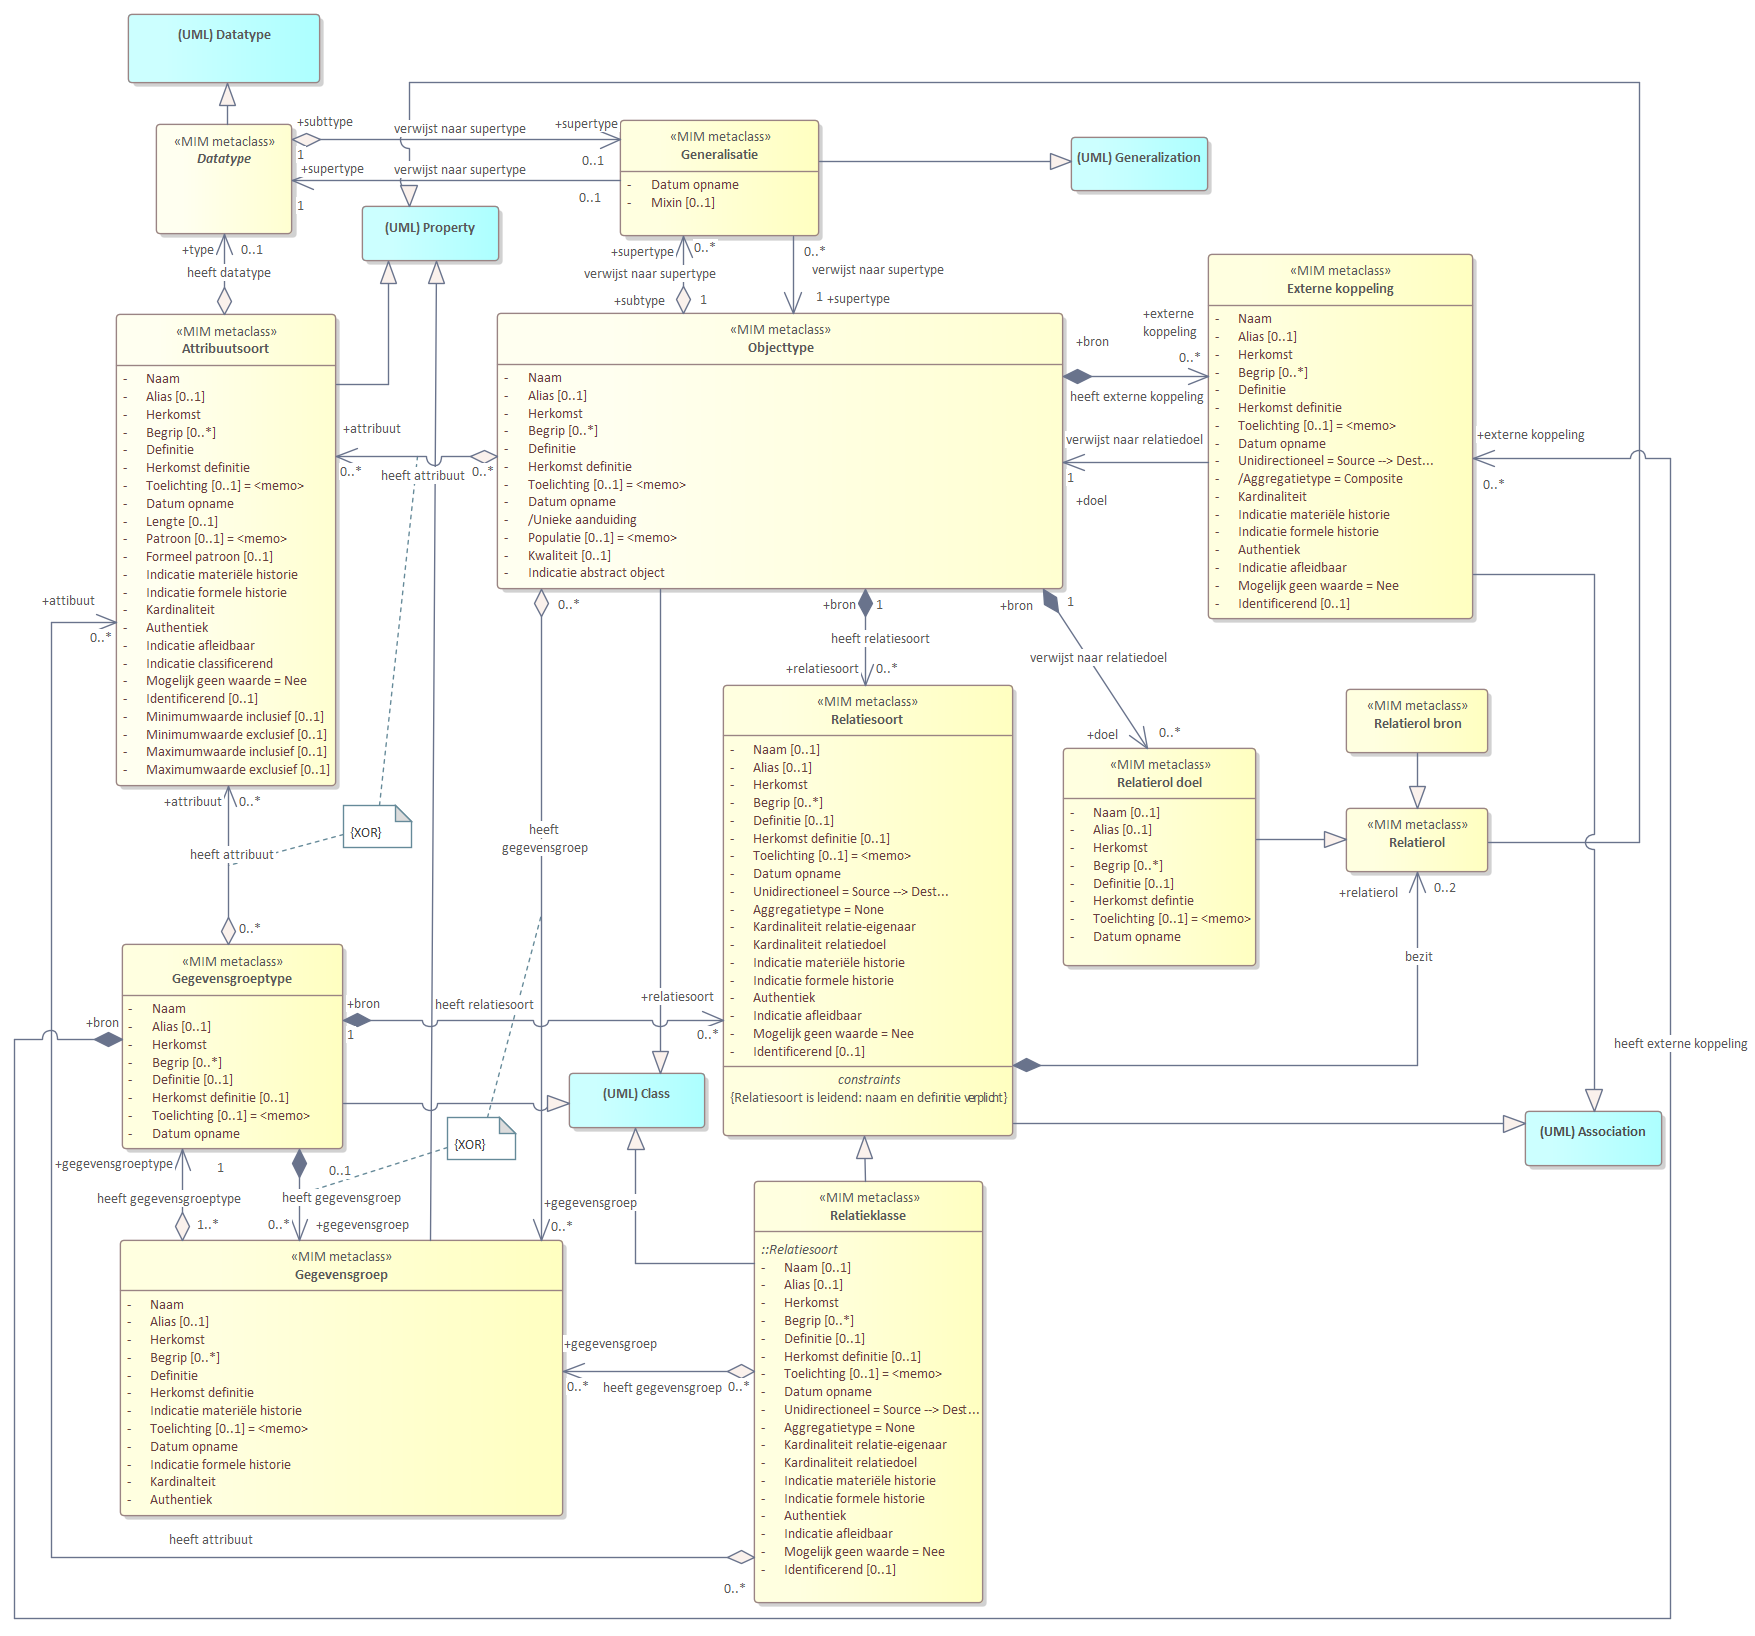
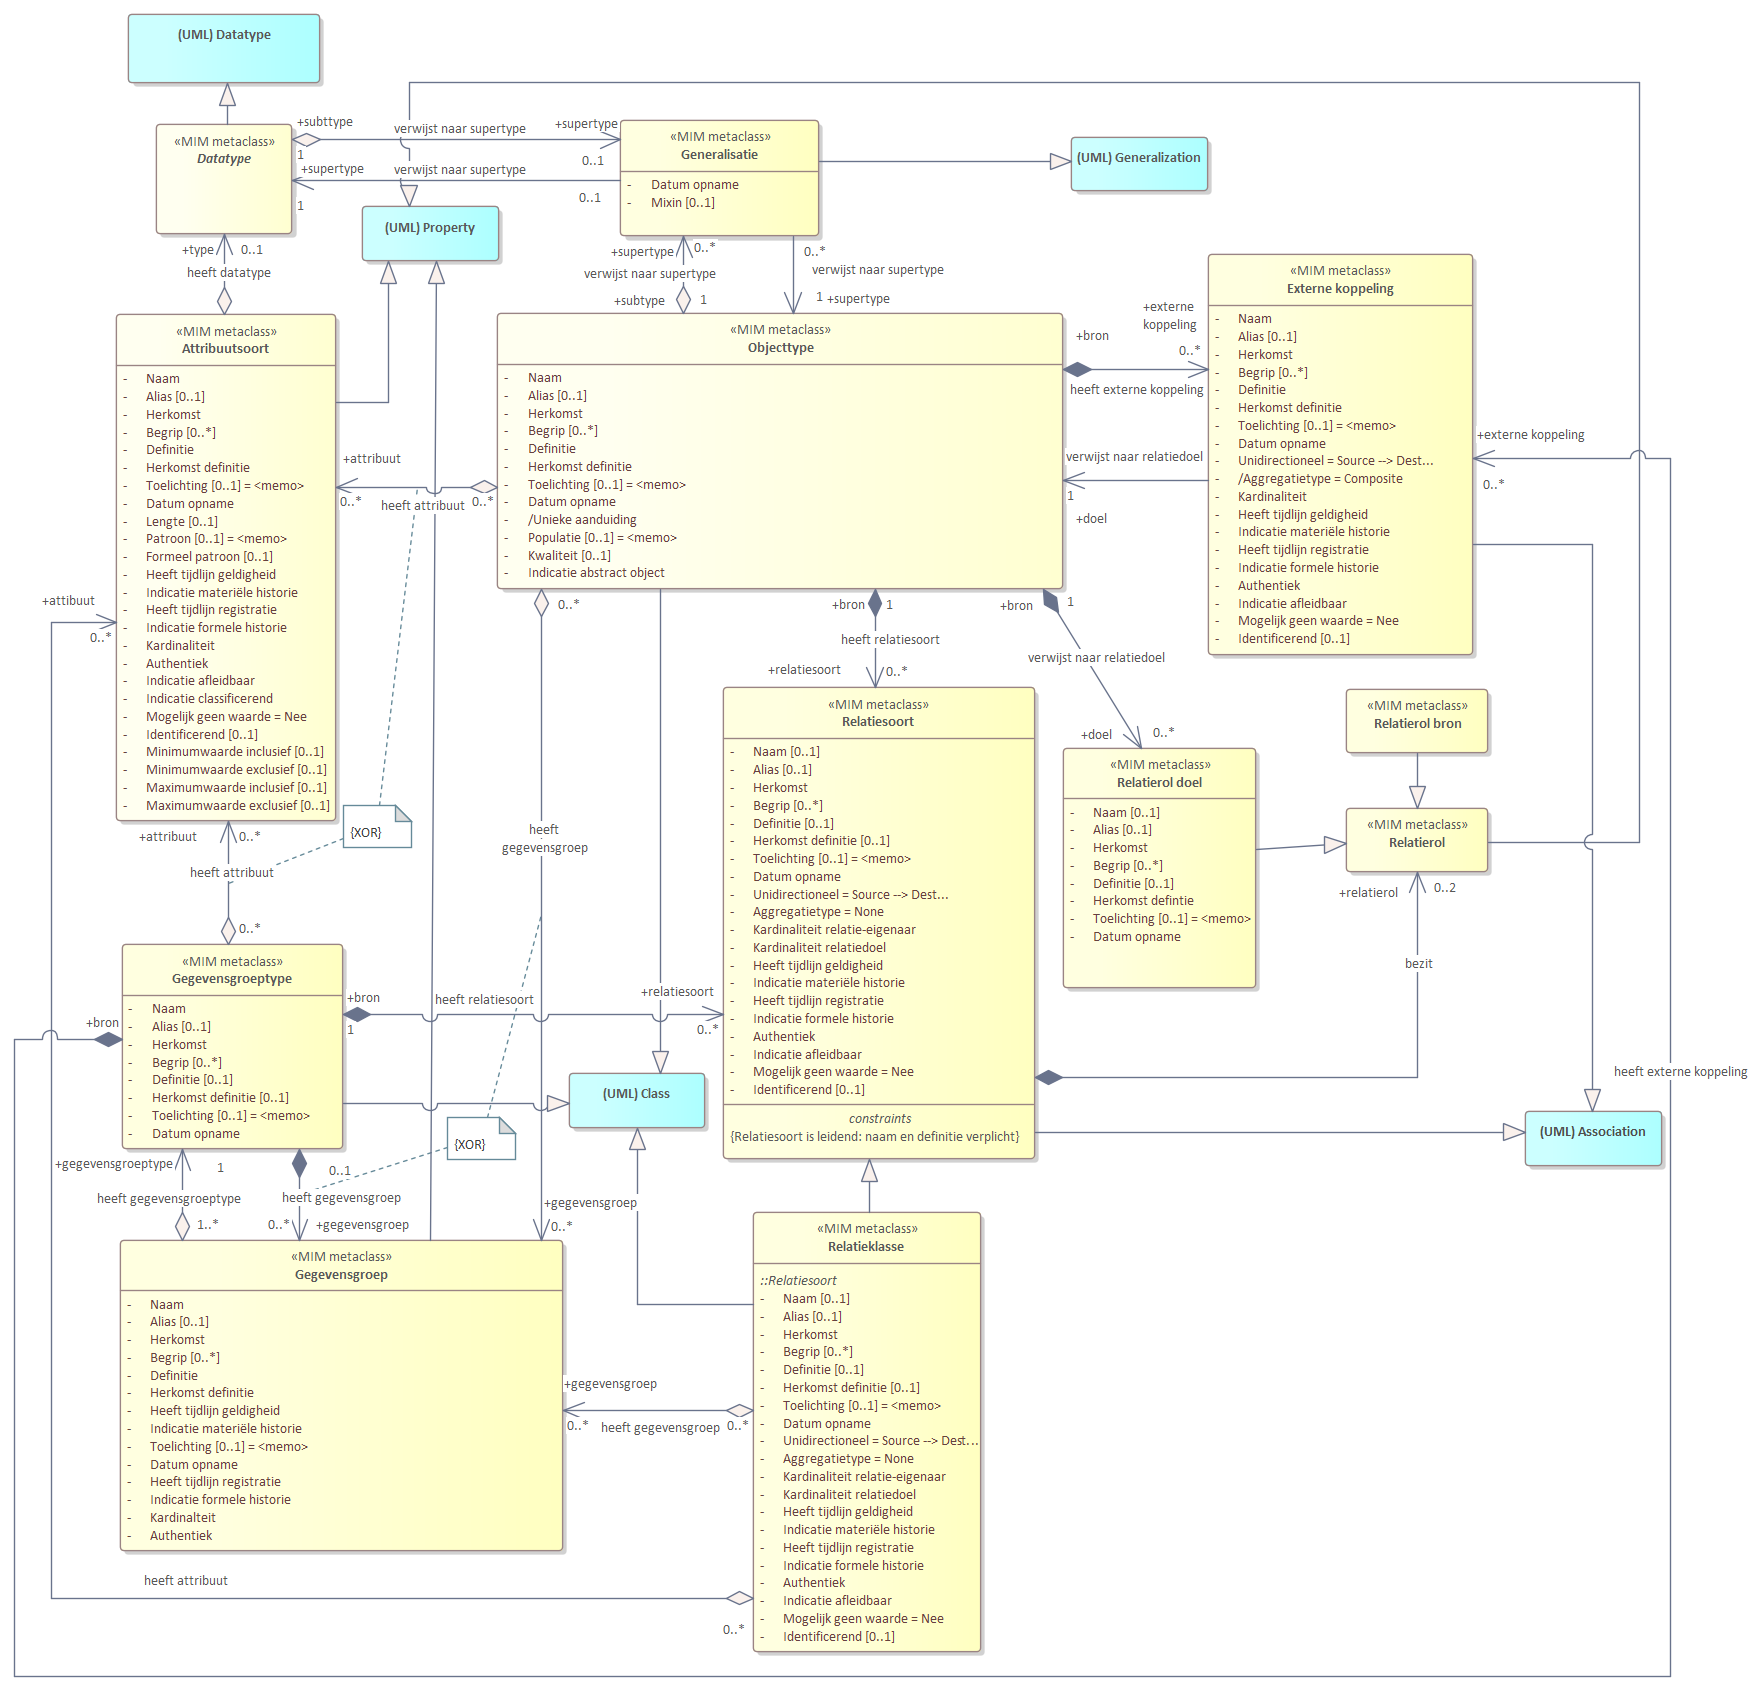
diagrammen update met heeft tijdlijn .....

diff --git a/MetamodelUML.md b/MetamodelUML.md
@@ -331,7 +331,9 @@ De attribuutsoorten worden naar de volgende aspecten gespecificeerd:
 | **- Lengte**                                | 0..1               | Algemeen metagegeven.                                        |                                                              |      | *Tagged value* |            |
 | **- Patroon**                               | 0..1               | Algemeen metagegeven.                                        |                                                              |      | *Tagged value* |            |
 | **- Formeel Patroon**                       | 0..1               | Algemeen metagegeven.                                        |                                                              |      | *Tagged value* |            |
+| **Heeft tijdlijn geldigheid √**          | 1                  | Algemeen metagegeven.                                        |                                                              |      | *Tagged value* |            |
 | **Indicatie materiële historie √**          | 1                  | Algemeen metagegeven.                                        |                                                              |      | *Tagged value* |            |
+| **Heeft tijdlijn registratie √**          | 1                  | Algemeen metagegeven.                                        |                                                              |      | *Tagged value* |            |
 | **Indicatie formele historie √**            | 1                  | Algemeen metagegeven.                                        |                                                              |      | *Tagged value* |            |
 | **Kardinaliteit √**                         | 1                  | Algemeen metagegeven.                                        | *lowerValue en upperValue van de metaclass Multiplicity Element* |      | *Multiplicity* |            |
 | **Authentiek √**                            | 1                  | Algemeen metagegeven.                                        |                                                              |      | *Tagged value* |            |
@@ -439,8 +441,10 @@ De relatiesoorten worden naar de volgende aspecten gespecificeerd.
 | **Aggregatietype**                | 1                  | Algemeen metagegeven. | *AggregationKind bij metaclass Property*                     |      | *Aggregation van de source role met waarde composite of shared* |            |
 | **Kardinaliteit√**                | 1                  | Algemeen metagegeven. | *lowerValue en upperValue van de metaclass MultiplicityElement* /target |      | *Multiplicity van de target role*                            |            |
 | **Kardinaliteit relatie bron**  | 1                  | Algemeen metagegeven. | *lowerValue en upperValue van de metaclass MultiplicityElement* /source |      | *Multiplicity van de source role*                            |            |
-| **Indicatie materiële historie√** | 1                  | Algemeen metagegeven. |                                                              |      | *Tagged value*                                               |            |
-| **Indicatie formele historie√**   | 1                  | Algemeen metagegeven. |                                                              |      | *Tagged value*                                               |            |
+| **Heeft tijdlijn geldigheid √**          | 1                  | Algemeen metagegeven.                                        |                                                              |      | *Tagged value* |            |
+| **Indicatie materiële historie √**          | 1                  | Algemeen metagegeven.                                        |                                                              |      | *Tagged value* |            |
+| **Heeft tijdlijn registratie √**          | 1                  | Algemeen metagegeven.                                        |                                                              |      | *Tagged value* |            |
+| **Indicatie formele historie √**            | 1                  | Algemeen metagegeven.                                        |                                                              |      | *Tagged value* |            |
 | **Authentiek√**                   | 1                  | Algemeen metagegeven. |                                                              |      | *Tagged value*                                               |            |
 | **Indicatie afleidbaar**          | 1                  | Algemeen metagegeven. | *isDerived bij UML metaclass Assocation*                     |      | *isDerived*                                                  |            |
 | **Mogelijk geen waarde**          | 1                  | Algemeen metagegeven. |                                                              |      | *Tagged value*                                               |            |
@@ -495,8 +499,10 @@ aspecten gespecificeerd.
 | **Identificerend**   | 0..1         | Algemeen metagegeven. | *isID bij de metaclass Property*      |    | *isID*         |     |
 | **Kardinaliteit√**   | 1            | Algemeen metagegeven. | *lowerValue en upperValue van de metaclass Multiplicity Element* |      | *Multiplicity* |            |
 | **Kardinaliteit relatie bron** | 1 | Algemeen metagegeven. | *lowerValue en upperValue van de metaclass MultiplicityElement*  |      | *Multiplicity* | | 
-| **Indicatie materiële historie√** | 1                  | Algemeen metagegeven. |                                                              |      | *Tagged value* |            |
-| **Indicatie formele historie√**   | 1                  | Algemeen metagegeven. |                                                              |      | *Tagged value* |            |
+| **Heeft tijdlijn geldigheid √**          | 1                  | Algemeen metagegeven.                                        |                                                              |      | *Tagged value* |            |
+| **Indicatie materiële historie √**          | 1                  | Algemeen metagegeven.                                        |                                                              |      | *Tagged value* |            |
+| **Heeft tijdlijn registratie √**          | 1                  | Algemeen metagegeven.                                        |                                                              |      | *Tagged value* |            |
+| **Indicatie formele historie √**            | 1                  | Algemeen metagegeven.                                        |                                                              |      | *Tagged value* |            |
 | **Authentiek√ \***                | 1                  | Algemeen metagegeven. |                                                              |      | *Tagged value* |            |
 | **Mogelijk geen waarde**          | 1                  | Algemeen metagegeven. |                                                              |      | *Tagged value* |            |
 
